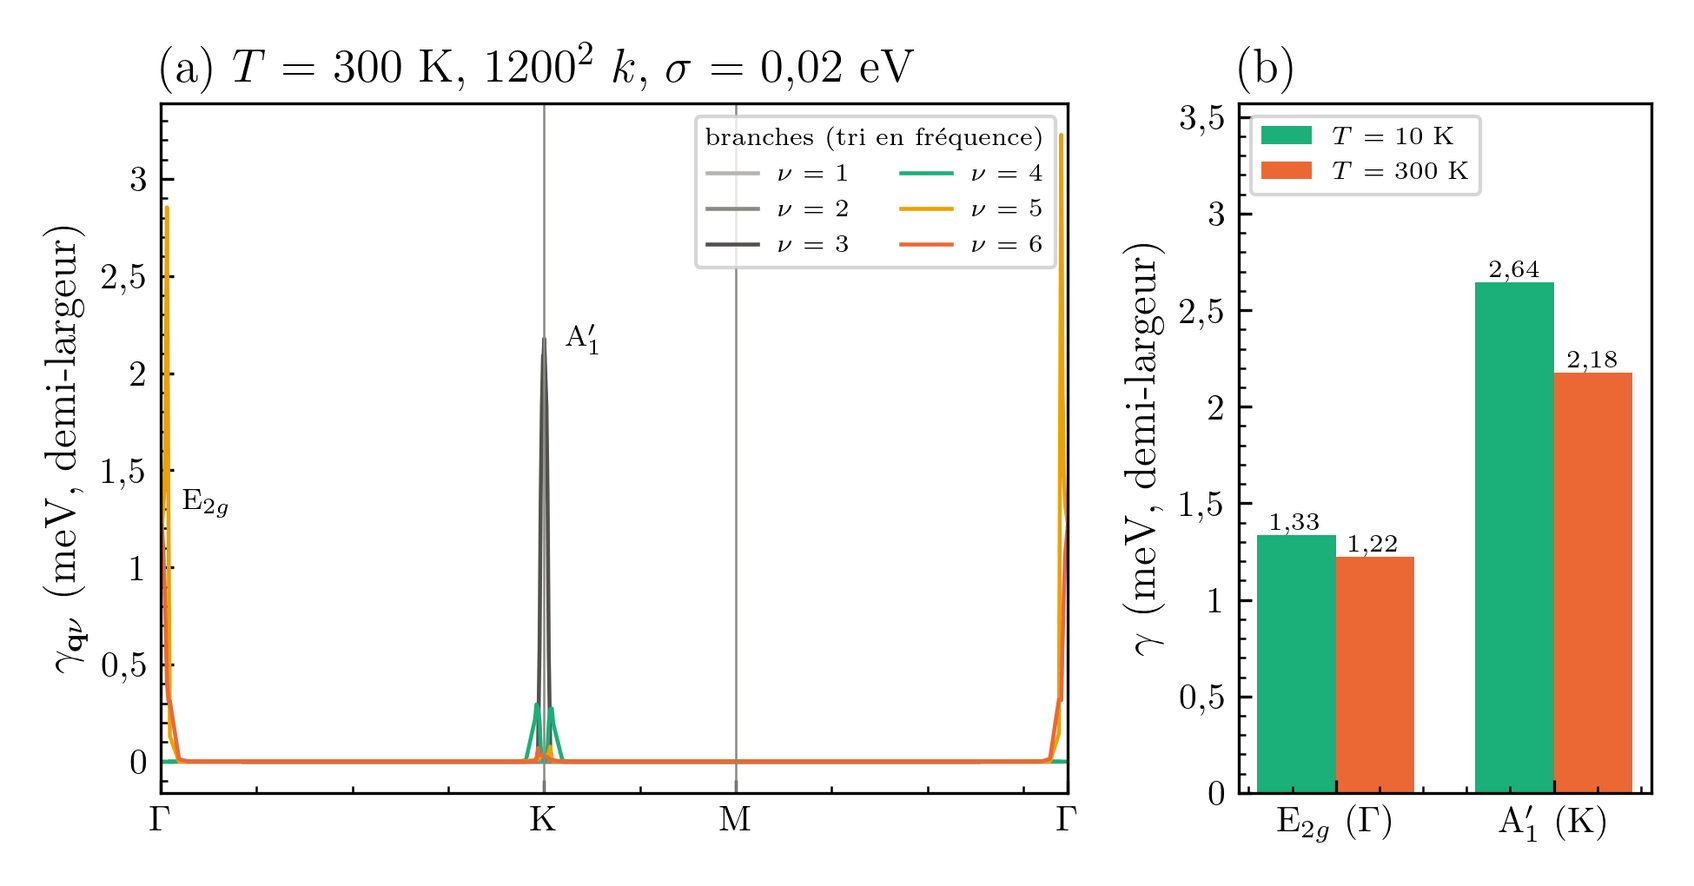
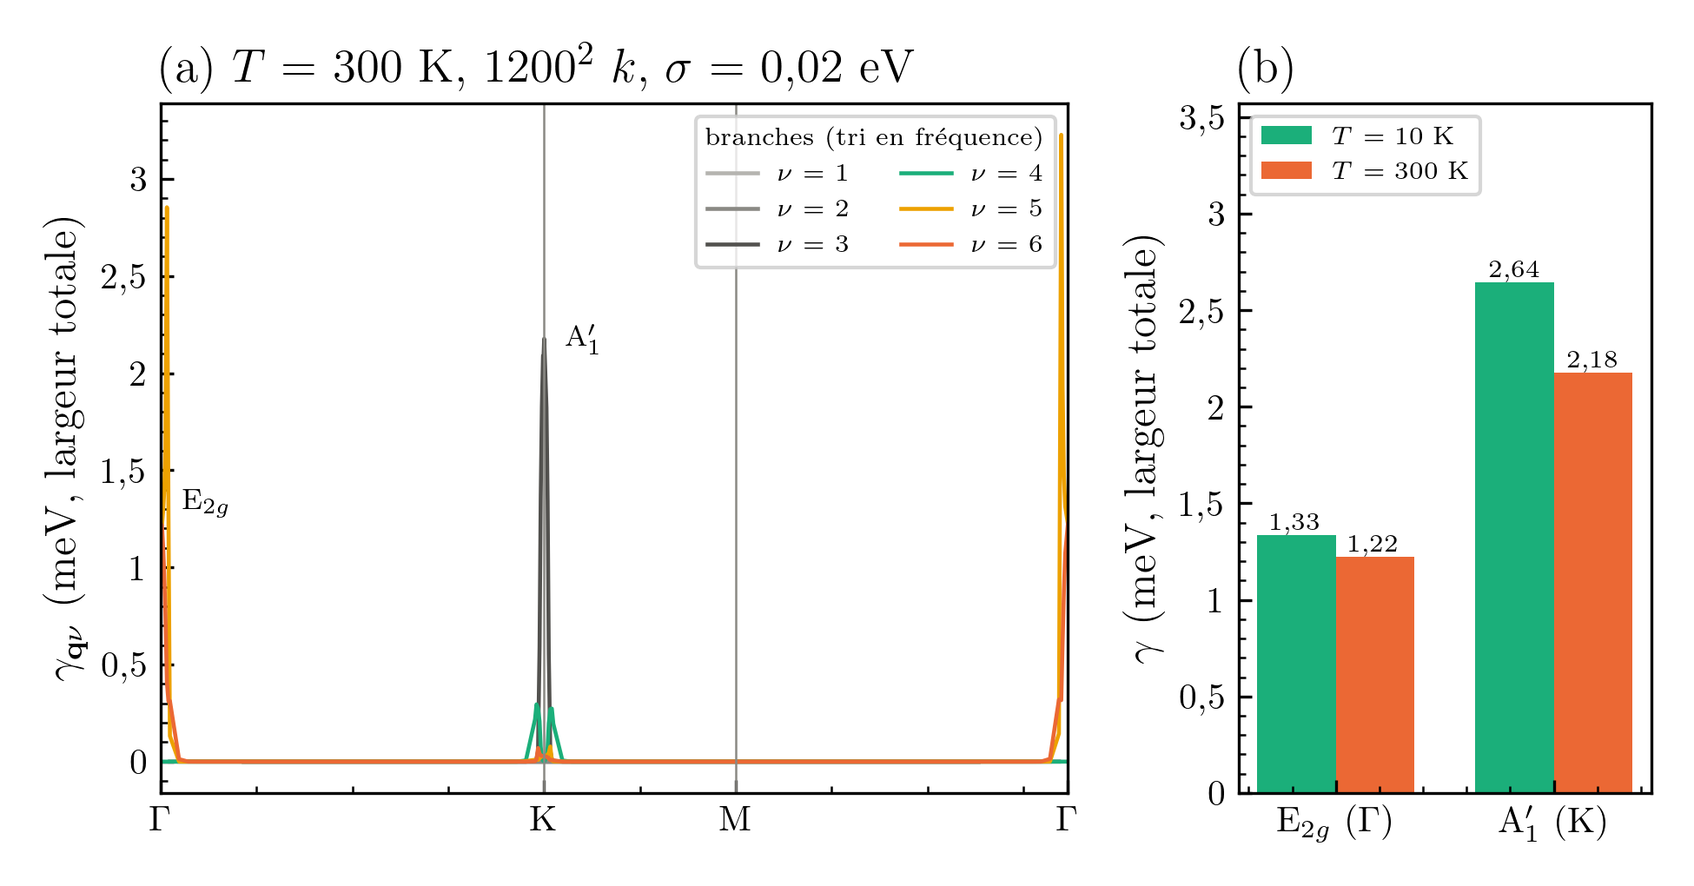
Chapitre 5 P7 : extraction de <D²_Γ>, <D²_K> (epw_d2_extract.py, deux routes) — vertex à 1–5 % de Piscanec 2004, facteur 2 localisé entre gamma___ (phonselfen) et Im Π ; calibration gamma_epw = FWHM, HWHM = gamma_epw/2 dans phself.py, P6 re-post-traité, fig_epw_phonselfen en largeur totale

diff --git a/scripts/epw_d2_extract.py b/scripts/epw_d2_extract.py
@@ -1,0 +1,135 @@
+#!/usr/bin/env python
+r"""
+epw_d2_extract.py -- P7: <D^2_Gamma>, <D^2_K> of the 24k-24q chain by two independent routes, no new EPW run.
+
+Definitions used here (block sums, gauge invariant):
+  S_g(q, modes) = sum_{i,j in {pi, pi*}} sum_{nu in modes} |g_ij^nu(k=K, q)|^2      [eV^2]   (EPW prtgkk / ph.x 'prt' |g| column, meV)
+  D^2 = |g|^2 * 2 M omega / hbar  with  g = sqrt(hbar / (2 M omega)) <k+q| dV/du_nu |k>   (u = displacement along the mass-scaled,
+        unit-normalised mode eigenvector; both atoms are carbon so M = M_C)  ->  D^2 [eV^2/A^2] = |g|^2 [eV^2] * 2 M_C * (hbar omega)[eV] / hbar^2,
+        the numerical factor being computed in SI below (no value from memory).
+  Route 1 (direct):  S_D(Gamma) = sum over LO+TO and the 2x2 pi/pi* block at k = K, q = Gamma;  S_D(K) = A1' mode, same block, q = K.
+                     Also the k+q-side "circle": q along the path with |E_{k+q} - E_D| <= 0.2 eV.
+  Route 2 (inversion of gamma, Dirac cone, E_F = E_D, T -> 0):
+     EPW: Im Pi_nu(q) = pi sum_k w_k sum_ij |g_ij^nu|^2 [f_ik - f_jk+q] delta(e_jk+q - e_ik - hw),  sum_k w_k = 2 (spin; EPW prints DOS per spin,
+          wkf = 2/N_k on the full mesh), i.e. sum_k w_k F(k) -> 2 * A_c * int d^2k/(2pi)^2 F(k).
+     Dirac cone e = +-v|k|: interband pi -> pi* only, delta(2 v k - hw) -> ring k_r = hw/(2v),  int d^2k delta(2vk - hw) = 2 pi k_r /(2v) = pi hw/(2 v^2).
+     Ring-averaged interband weight of one mode = S_g(mode)/4 [pseudospin algebra: intra = inter after angle average, pi->pi* = pi*->pi].
+     E2g (q = 0): both valleys contribute (K->K, K'->K'), per mode nu (LO or TO):
+          gamma_nu = pi * 2 * 2 * A_c/(2pi)^2 * pi hw/(2v^2) * S_g^nu/4 = A_c hw S_g^nu /(8 v^2) = A_c hw S_g(LO+TO) /(16 v^2)
+     A1' (q = K): only the K -> K' valley pair (k near K' + K = Gamma has no Dirac states), single mode:
+          gamma_K = pi * 2 * 1 * A_c/(2pi)^2 * pi hw_K/(2v^2) * S_g(K)/4 = A_c hw_K S_g(K) /(16 v^2)
+     Both: S_g = 16 v^2 gamma / (A_c hw), gamma = EPW HWHM per mode (10 K), v = Fermi velocity fitted on OUR bands (|e - E_D| <= 0.2 eV).
+  Note the omega cancellation: gamma = A_c/(16 v^2) * hw * S_g = A_c hbar^2 /(32 M v^2) * S_D  -> gamma depends on D^2 and v only.
+Spin: EPW weights (2); valley: explicit above (2 at Gamma, 1 at K); the DOS N(E_F) is not used.
+Usage: python scripts/epw_d2_extract.py [--root <24k-24q dir>]
+"""
+import argparse, os, re, sys, numpy as np
+sys.path.insert(0, os.path.join(os.path.dirname(os.path.abspath(__file__)), "..", "src"))
+ap = argparse.ArgumentParser(); ap.add_argument("--root", default="/home/gregb26/links/projects/rrg-cotemich-ac/gregb26/graphene/qe/epw/24k-24q"); a = ap.parse_args()
+R = a.root; E_D = -4.2389
+
+# ---------------- constants (SI), conversion factor computed, not quoted
+hbar = 1.054571817e-34; eV = 1.602176634e-19; u_kg = 1.66053906660e-27; M_C = 12.011 * u_kg
+D2_over_g2_per_eV = 2 * M_C * eV / hbar ** 2 * 1e-20          # [A^-2 per eV of hbar*omega]: D^2[eV^2/A^2] = g^2[eV^2] * hw[eV] * this
+alat_bohr = np.linalg.norm([4.0354919061, -2.3298923383]); a_A = alat_bohr * 0.529177210903; A_c = np.sqrt(3) / 2 * a_A ** 2
+print(f"[const] D^2/g^2 = {D2_over_g2_per_eV:.2f} A^-2 per eV of hbar*omega ; a = {a_A:.4f} A, A_c = {A_c:.4f} A^2")
+
+# ---------------- Fermi velocity of OUR chain: EPW band.eig (474 k on Gamma-K-M-Gamma, absolute eV) and bands.x (181 k), around K
+V = np.load("results/epw/validation_24k24q.npz", allow_pickle=True)
+L_path = (2 / 3 + 1 / 3 + 1 / np.sqrt(3)) * 2 * np.pi / a_A                     # A^-1, Gamma-K-M-Gamma
+sK = (2 / 3) / (2 / 3 + 1 / 3 + 1 / np.sqrt(3))
+def read_plot(f):
+    txt = open(f).read().split("\n"); hdr = re.search(r"nbnd=\s*(\d+),\s*nks=\s*(\d+)", txt[0]); nb, nks = int(hdr.group(1)), int(hdr.group(2)); vals = []; i = 1
+    while i < len(txt) and len(vals) < nks:
+        if len(txt[i].split()) == 3:
+            e = []; j = i + 1
+            while len(e) < nb: e += [float(x) for x in txt[j].split()]; j += 1
+            vals.append(e); i = j
+        else: i += 1
+    return np.array(vals)
+def vfit(s, E_bands, ED, label, emax):
+    out = []
+    for n, side in ((3, "pi"), (4, "pi*")):
+        e = E_bands[:, n] - ED; m = (np.abs(e) <= emax) & (np.abs(e) > 0.02); k = (s[m] - sK) * L_path
+        vv = np.polyfit(np.abs(k), np.abs(e[m]), 1)[0]; out.append(vv)
+    print(f"[v_F] {label}: pi {out[0]:.3f}, pi* {out[1]:.3f} eV.A  (fit |E-E_D| in [0.02, {emax}] eV, {m.sum()} points)"); return float(np.mean(out))
+qb = np.loadtxt(f"{R}/band_freq_interp/graphene_band.kpt", skiprows=1)[:, :2]
+Bm = np.array([[1 / np.sqrt(3.0), -1.0], [1 / np.sqrt(3.0), 1.0]]).T; kc = (Bm @ qb.T).T; s_e = np.concatenate([[0], np.cumsum(np.linalg.norm(np.diff(kc, axis=0), axis=1))]); s_e /= s_e[-1]
+E_e = read_plot(f"{R}/band_freq_interp/band.eig")
+v_epw = vfit(s_e, E_e, E_D, "EPW Wannier (band.eig)", 0.3)
+v_dft = vfit(V["bands_s"], V["bands_E_dft"], float(V["bands_ED_dft"]), "bands.x (DFT)", 0.5)
+v = v_epw
+
+# ---------------- route 1a: EPW prtgkk at k = K (epw_g_K), q on the 474-point path
+qk = np.loadtxt(f"{R}/epw_g_K/graphene_band.kpt", skiprows=1)[:, :2]
+def qdist(q, ref): d = np.mod(q - np.array(ref) + 0.5, 1.0) - 0.5; return np.linalg.norm(d, axis=1)
+iG = int(np.argmin(qdist(qk, (0, 0)))); iK = int(np.argmin(qdist(qk, (2 / 3, 1 / 3))))
+g = {}
+for ib in (4, 5):
+    for jb in (4, 5):
+        for nu in range(1, 7): g[(ib, jb, nu)] = np.loadtxt(f"{R}/epw_g_K/epw_g_g{ib}{jb}_{nu}.dat")
+om = np.array([g[(4, 4, nu)][:, 5] for nu in range(1, 7)]).T * 1e-3                  # (nq, 6) eV
+Ekq = g[(4, 4, 1)][:, 4]; Ek = g[(4, 4, 1)][:, 3]
+def Sg(iq, modes): return sum(g[(ib, jb, nu)][iq, 7] ** 2 for ib in (4, 5) for jb in (4, 5) for nu in modes) * 1e-6   # eV^2
+print(f"[EPW k=K] E_k(4,5) = {g[(4,4,1)][iK,3]:.4f}/{g[(5,5,1)][iK,3]:.4f} eV ; at q=Gamma (iq {iG+1}) E_k+q(4,5) = {g[(4,4,1)][iG,4]:.4f}/{g[(5,5,1)][iG,4]:.4f}, "
+      f"omega = {np.round(om[iG]*1e3,2)} meV ; at q=K (iq {iK+1}) E_k+q = {g[(4,4,1)][iK,4]:.4f}/{g[(5,5,1)][iK,4]:.4f}, omega = {np.round(om[iK]*1e3,2)} meV")
+modesG = (5, 6); iA1 = int(np.argmin(np.abs(om[iK] * 1e3 - 120.5))) + 1
+SgG = Sg(iG, modesG); SgK = Sg(iK, (iA1,)); wG = om[iG, 4:6].mean(); wK = om[iK, iA1 - 1]
+SDG = sum(g[(ib, jb, nu)][iG, 7] ** 2 * 1e-6 * om[iG, nu - 1] for ib in (4, 5) for jb in (4, 5) for nu in modesG) * D2_over_g2_per_eV
+SDK = SgK * wK * D2_over_g2_per_eV
+print(f"[route 1a EPW] q=Gamma: S_g(LO+TO, 2x2) = {SgG:.5f} eV^2 (per mode {SgG/2:.5f}; |g| rms per entry {np.sqrt(SgG/8)*1e3:.1f} meV), hw = {wG*1e3:.2f} meV -> S_D(Gamma) = {SDG:.2f} eV^2/A^2")
+print(f"                q=K    : S_g(A1' mode {iA1}, 2x2) = {SgK:.5f} eV^2 (|g| rms {np.sqrt(SgK/4)*1e3:.1f} meV), hw = {wK*1e3:.2f} meV -> S_D(K) = {SDK:.2f} eV^2/A^2 ; S_D(K)/S_D(Gamma) = {SDK/SDG:.3f}")
+# the k+q-side circle: q near Gamma / K with |E_{k+q} - E_D| <= 0.2 eV (bands 4/5 at k+q)
+def strongest_mode(iq): return int(np.argmax([Sg(iq, (nu,)) for nu in range(1, 7)])) + 1        # A1' branch reorders away from K: take the branch carrying the coupling
+for name, iq0, modes_of in (("Gamma", iG, lambda iq: (5, 6)), ("K", iK, lambda iq: (strongest_mode(iq),))):
+    near = [iq for iq in range(len(qk)) if abs(g[(4, 4, 1)][iq, 4] - E_D) <= 0.2 and abs(g[(5, 5, 1)][iq, 4] - E_D) <= 0.2 and qdist(qk[[iq]], qk[iq0])[0] < 0.05]
+    vals = [sum(g[(ib, jb, nu)][iq, 7] ** 2 * 1e-6 * om[iq, nu - 1] for ib in (4, 5) for jb in (4, 5) for nu in modes_of(iq)) * D2_over_g2_per_eV for iq in near]
+    print(f"                circle {name}: {len(near)} q with |E_k+q - E_D| <= 0.2 eV: S_D mean {np.mean(vals):.2f}, min {np.min(vals):.2f}, max {np.max(vals):.2f} eV^2/A^2 (at the point: {vals[near.index(iq0)]:.2f})")
+
+# ---------------- route 1b: ph.x 'prt' DFPT at k = K (dfpt_g_K/ph.out), q = Gamma (block 1) and q = K (block 11); bands 4,5 (E = E_D)
+blocks = []; cur = None
+for line in open(f"{R}/dfpt_g_K/ph.out"):
+    if "q coord.:" in line: cur = {"q": [float(x) for x in line.split(":")[1].split()], "rows": []}; blocks.append(cur)
+    p = line.split()
+    if cur is not None and len(p) == 10 and p[0].isdigit() and p[1].isdigit() and p[2].isdigit():
+        try: cur["rows"].append([float(x) for x in p])
+        except ValueError: pass
+def dfpt_S(b, modes):
+    rows = np.array(b["rows"]); sel = np.isin(rows[:, 0], (4, 5)) & np.isin(rows[:, 1], (4, 5)) & np.isin(rows[:, 2], modes)
+    r = rows[sel]; Sg_ = (r[:, 7] ** 2).sum() * 1e-6; SD_ = ((r[:, 7] ** 2) * 1e-6 * r[:, 5] * 1e-3).sum() * D2_over_g2_per_eV; w_ = np.unique(np.round(r[:, 5], 3))
+    return Sg_, SD_, w_, r[:, 3].min(), r[:, 3].max(), r[:, 4].min(), r[:, 4].max()
+bG = blocks[0]; bK = blocks[10]
+a1_d = int(max(bK["rows"], key=lambda r: r[5])[2])                                     # A1' = highest-frequency mode at K in this run (159.8 meV, mode 6)
+SgGd, SDGd, wGd, *eG = dfpt_S(bG, (5, 6)); SgKd, SDKd, wKd_, *eK = dfpt_S(bK, (a1_d,))
+print(f"[route 1b DFPT prt, 16x16 k] q={bG['q']}: modes 5,6 hw {wGd} meV, E_k {eG[0]:.4f}..{eG[1]:.4f}, E_k+q {eG[2]:.4f}..{eG[3]:.4f}: S_g = {SgGd:.5f} eV^2 -> S_D(Gamma) = {SDGd:.2f} eV^2/A^2")
+print(f"                              q={bK['q']}: A1' = mode {a1_d} hw {wKd_} meV, E_k+q {eK[2]:.4f}..{eK[3]:.4f}: S_g = {SgKd:.5f} eV^2 -> S_D(K) = {SDKd:.2f} eV^2/A^2 ; ratio {SDKd/SDGd:.3f}")
+print(f"                EPW/DFPT: S_g Gamma {SgG/SgGd:.3f}, K {SgK/SgKd:.3f} ; S_D Gamma {SDG/SDGd:.3f}, K {SDK/SDKd:.3f} ; omega ratio Gamma {wG*1e3/wGd.mean():.3f}, K {wK*1e3/wKd_.mean():.3f}")
+
+# ---------------- route 2: inversion of EPW gamma (1200^2, sigma 0.02, 10 K), per-mode HWHM
+P = np.load("results/epw/phself_path_1200_dg0.02.npz", allow_pickle=True)
+from electron_defect_interaction.electron_phonon import phself
+sp = phself.special_points(P["q"]); jG, jK = sp["G"][0], sp["K"][0]; i10 = int(np.argmin(np.abs(P["T"] - 10)))
+gG = P["gamma_epw"][i10, jG, 4:6].mean() * 1e-3; gK = P["gamma_epw"][i10, jK, 2] * 1e-3; wG2 = P["omega"][jG, 4:6].mean() * 1e-3; wK2 = P["omega"][jK, 2] * 1e-3   # RAW EPW gamma___ (route 2 tests the raw output)
+for vv, lab in ((v_epw, "v_F EPW"), (v_dft, "v_F bands.x")):
+    SgG_inv = 16 * vv ** 2 * gG / (A_c * wG2); SgK_inv = 16 * vv ** 2 * gK / (A_c * wK2)
+    print(f"[route 2, {lab} = {vv:.3f} eV.A] gamma_HWHM(E2g, per mode) = {gG*1e3:.4f} meV, hw {wG2*1e3:.2f} -> S_g(LO+TO) = {SgG_inv:.5f} eV^2, S_D(Gamma) = {SgG_inv*wG2*D2_over_g2_per_eV:.2f} eV^2/A^2 ; "
+          f"gamma(A1') = {gK*1e3:.4f} meV, hw {wK2*1e3:.2f} -> S_g(K) = {SgK_inv:.5f} eV^2, S_D(K) = {SgK_inv*wK2*D2_over_g2_per_eV:.2f} eV^2/A^2")
+print(f"[route 2 vs route 1a] S_g Gamma: inverted/direct = {16*v**2*gG/(A_c*wG2)/SgG:.3f} ; K: {16*v**2*gK/(A_c*wK2)/SgK:.3f}   (1 = EPW gamma consistent with EPW g under the Dirac-cone formula, v = v_F EPW)")
+# forward: gamma predicted from route-1 sums
+print(f"[forward] gamma_HWHM predicted from S_g(EPW): E2g per mode {A_c*wG*SgG/(16*v**2)*1e3:.4f} meV (EPW phonselfen {gG*1e3:.4f}), A1' {A_c*wK*SgK/(16*v**2)*1e3:.4f} meV (EPW {gK*1e3:.4f})")
+# ---------------- comparison table (per-entry mean d^2 = S_D / n_entries: 8 at Gamma (2x2 block x LO+TO), 4 at K (2x2 block x A1'))
+# Identification of Piscanec's <D^2>_F with the per-entry mean rests on two independent facts (to be confirmed in the PDFs):
+#   (i) TB identity <D^2_Gamma>_F = (9/4)(dt/da)^2 = 45.6 eV^2/A^2 for dt/da = 4.5 eV/A (the value quoted with Piscanec's number), and (9/4) beta^2 is
+#       exactly S_D(Gamma)/8 in the EPW displacement convention (per mode Tr(DD+) = 9 beta^2, two modes, 8 entries);
+#   (ii) the Dirac-cone HWHM formula above with d^2 = 45.6 and v = 5.5 eV.A gives FWHM = 11 cm^-1, the literature E2g value.
+LIT = {"Piscanec 2004 LDA": (45.6, 92.05), "Lazzeri 2008 GW": (62.8, 193.0)}     # eV^2/A^2, quoted from memory -> verify in Zotero
+d2 = {"route 1a EPW (24x24 chain)": (SDG / 8, SDK / 4), "route 1b DFPT prt (16x16 k)": (SDGd / 8, SDKd / 4),
+      "route 2 inversion of EPW gamma (Dirac cone)": (16 * v ** 2 * gG / (A_c * wG2) * wG2 * D2_over_g2_per_eV / 8, 16 * v ** 2 * gK / (A_c * wK2) * wK2 * D2_over_g2_per_eV / 4)}
+print("\n[table] <D^2>_Gamma, <D^2>_K (eV^2/A^2), per-entry mean convention; ratio to Piscanec LDA in parentheses")
+for name, (dg_, dk_) in list(d2.items()) + list(LIT.items()):
+    print(f"   {name:46s} {dg_:8.1f} ({dg_/45.6:4.2f})   {dk_:8.1f} ({dk_/92.05:4.2f})   K/Gamma {dk_/dg_:4.2f}")
+gG_lit = A_c * 45.6 / (2 * 5.5 ** 2 * D2_over_g2_per_eV); print(f"[check] Dirac-cone HWHM from Piscanec d^2 = 45.6, v = 5.5 eV.A: {gG_lit*1e3:.3f} meV = {gG_lit*1e3*8.06554:.2f} cm^-1 -> FWHM {2*gG_lit*1e3*8.06554:.1f} cm^-1 (literature ~10-11)")
+np.savez("results/epw/d2_extract_24k24q.npz", d2_table=np.array([(k, v1, v2) for k, (v1, v2) in list(d2.items()) + list(LIT.items())], dtype=object), units="S_g eV^2; S_D eV^2/A^2; v eV.A; omega eV; gamma eV (HWHM)", E_D=E_D, v_F_epw=v_epw, v_F_dft=v_dft, A_c=A_c, D2_over_g2_per_eV=D2_over_g2_per_eV,
+         Sg_G_epw=SgG, Sg_K_epw=SgK, SD_G_epw=SDG, SD_K_epw=SDK, omega_G_epw=wG, omega_K_epw=wK, Sg_G_dfpt=SgGd, Sg_K_dfpt=SgKd, SD_G_dfpt=SDGd, SD_K_dfpt=SDKd,
+         omega_G_dfpt=wGd.mean() * 1e-3, omega_K_dfpt=wKd_.mean() * 1e-3, gamma_G_hwhm_10K=gG, gamma_K_hwhm_10K=gK, Sg_G_inv=16 * v ** 2 * gG / (A_c * wG2), Sg_K_inv=16 * v ** 2 * gK / (A_c * wK2))
+print("saved results/epw/d2_extract_24k24q.npz")

diff --git a/scripts/epw_phself_post.py b/scripts/epw_phself_post.py
@@ -3,7 +3,7 @@
 epw_phself_post.py -- P6 post-processing of EPW phonselfen runs (read-only).
   --dir <run> [<run2>…] --tag <tag> -> results/epw/phself_<tag>.npz (several runs are merged and ordered along Γ–K–M–Γ) (omega, gamma HWHM & FWHM, lambda along the q list, both T) + key values at Gamma (E2g) and K (A1')
   --table <run dirs...>     -> convergence table of gamma(A1', K) HWHM (meV) per T, relative to --ref (substring of the run dir)
-EPW gamma = Im Pi = HWHM (selfen_phon.f90); FWHM = 2 gamma. Energies meV; cm^-1 = meV x 8.06554.
+Convention (P7 calibration): EPW gamma___ is numerically the FWHM (2 x Dirac-cone Im Pi from EPW's own g); HWHM = gamma___/2. Energies meV; cm^-1 = meV x 8.06554.
 """
 import argparse, os, sys, numpy as np
 sys.path.insert(0, os.path.join(os.path.dirname(os.path.abspath(__file__)), "..", "src"))
@@ -16,21 +16,21 @@ def key_values(R):
     for name, modes, label in (("G", (4, 5), "E2g(Gamma) LO/TO"), ("K", (2,), "A1'(K)")):
         for i in sp.get(name, []):
             for it, T in enumerate(R["T"]):
-                g = R["gamma_hwhm"][it, i, list(modes)]; w = R["omega"][i, list(modes)]
+                g = R["gamma_fwhm"][it, i, list(modes)]; w = R["omega"][i, list(modes)]
                 rows.append((label, i, T, w.mean(), g.mean(), g.max() - g.min()))
     return rows
 
 if a.dir:
     R = phself.merge_runs([phself.read_phself(d) for d in a.dir]); tag = a.tag
-    print(f"[phself {tag}] nkf {R['nkf']}x{R['nkf']} (full mesh), degaussw {R['degaussw']} eV, E_F {R['E_F']} eV, {len(R['q'])} q, T = {R['T']} K; gamma = EPW Im Pi (HWHM), FWHM = 2 gamma")
+    print(f"[phself {tag}] nkf {R['nkf']}x{R['nkf']} (full mesh), degaussw {R['degaussw']} eV, E_F {R['E_F']} eV, {len(R['q'])} q, T = {R['T']} K; gamma_epw = FWHM (P7 calibration), HWHM = gamma_epw/2")
     for label, i, T, w, g, spread in key_values(R):
-        print(f"   {label:18s} iq={i+1:3d} T={T:6.1f} K: omega {w:8.3f} meV ({w*C:7.1f} cm^-1); gamma HWHM {g:8.4f} meV, FWHM {2*g:8.4f} meV ({2*g*C:7.2f} cm^-1); LO/TO spread {spread:.2e} meV")
+        print(f"   {label:18s} iq={i+1:3d} T={T:6.1f} K: omega {w:8.3f} meV ({w*C:7.1f} cm^-1); gamma FWHM = EPW {g:8.4f} meV ({g*C:7.2f} cm^-1), HWHM {g/2:8.4f} meV; LO/TO spread {spread:.2e} meV")
     sp = phself.special_points(R["q"])
     for i in sp.get("G", []):
-        print(f"   Gamma iq={i+1}: acoustic omega {R['omega'][i,:3]} meV, acoustic gamma(300K) {R['gamma_hwhm'][-1, i, :3]} meV (masked in the figure)")
+        print(f"   Gamma iq={i+1}: acoustic omega {R['omega'][i,:3]} meV, acoustic gamma(300K) {R['gamma_epw'][-1, i, :3]} meV (masked in the figure)")
     out = f"results/epw/phself_{tag}.npz"; os.makedirs("results/epw", exist_ok=True)
-    np.savez(out, tag=tag, units="meV (omega, gamma); q crystal; s = path coordinate", convention="gamma_hwhm = EPW Im Pi (half width, selfen_phon.f90); gamma_fwhm = 2 gamma_hwhm",
-             E_F=R["E_F"], E_D=-4.2389, nkf=R["nkf"], degaussw=R["degaussw"], fsthick=3.5, T=R["T"], q=R["q"], s=R["s"], omega=R["omega"], gamma_hwhm=R["gamma_hwhm"], gamma_fwhm=2 * R["gamma_hwhm"],
+    np.savez(out, tag=tag, units="meV (omega, gamma); q crystal; s = path coordinate", convention="gamma_epw = raw EPW gamma___; P7 calibration (2026-09-11): gamma_fwhm = gamma_epw, gamma_hwhm = gamma_epw/2 (EPW value = 2 x Dirac-cone Im Pi from EPW's g; matches literature FWHM)",
+             E_F=R["E_F"], E_D=-4.2389, nkf=R["nkf"], degaussw=R["degaussw"], fsthick=3.5, T=R["T"], q=R["q"], s=R["s"], omega=R["omega"], gamma_epw=R["gamma_epw"], gamma_hwhm=R["gamma_hwhm"], gamma_fwhm=R["gamma_fwhm"],
              lam=R["lam"] if R["lam"] is not None else np.array([]), key_values=np.array([(r[0], r[1], r[2], r[3], r[4]) for r in key_values(R)], dtype=object))
     print(f"   saved {out}")
 
@@ -38,9 +38,9 @@ if a.table is not None:
     rows = []
     for d in a.table:
         R = phself.read_phself(d); sp = phself.special_points(R["q"]); i = sp["K"][0]
-        rows.append((os.path.basename(d.rstrip("/")), R["nkf"], R["degaussw"], [R["gamma_hwhm"][it, i, 2] for it in range(len(R["T"]))], R["T"]))
+        rows.append((os.path.basename(d.rstrip("/")), R["nkf"], R["degaussw"], [R["gamma_epw"][it, i, 2] for it in range(len(R["T"]))], R["T"]))
     ref = a.ref and next((r for r in rows if a.ref in r[0]), None)
-    Ts = rows[0][4]; hdr = f"{'run':30s} {'nkf':>5s} {'degaussw':>9s}" + "".join(f"  gamma(A1',K) {T:.0f}K (meV)" for T in Ts) + ("   rel. ref " + " / ".join(f"{T:.0f}K" for T in Ts) if ref else "")
+    Ts = rows[0][4]; hdr = f"{'run':30s} {'nkf':>5s} {'degaussw':>9s}" + "".join(f"  gamma_epw(A1',K) {T:.0f}K (meV)" for T in Ts) + ("   rel. ref " + " / ".join(f"{T:.0f}K" for T in Ts) if ref else "")
     print(hdr)
     for r in rows:
         line = f"{r[0]:30s} {r[1]:5d} {r[2]:9.3f}" + "".join(f"  {g:22.4f}" for g in r[3])

diff --git a/src/electron_defect_interaction/electron_phonon/phself.py b/src/electron_defect_interaction/electron_phonon/phself.py
@@ -1,7 +1,10 @@
 """EPW phonselfen post-processing (read-only).
-EPW's gamma___ / 'Phonon linewidth (meV)' in linewidth.phself.<T>K is Im Pi_qnu, documented in selfen_phon.f90 as the
-phonon linewidth HALF width (HWHM); lambda___ = gamma / (pi N_F omega^2) follows Allen's convention with gamma = HWHM.
-We store gamma_hwhm = EPW value and gamma_fwhm = 2 * gamma_hwhm (chapter-3 delta -> Lorentzian uses the FWHM).
+EPW's gamma___ / 'Phonon linewidth (meV)' in linewidth.phself.<T>K is documented in selfen.f90 (selfen_phon_q) as Im Pi_qnu, a
+HALF width. P7 (scripts/epw_d2_extract.py, 2026-09-11) showed EMPIRICALLY that for graphene this number is 2.0 x the Dirac-cone Im Pi
+built from EPW's own g and v_F at Gamma (brute-force checked, sin^2/cos^2 vertex structure confirmed on the q-zoom), and that it
+coincides with the literature FWHM (10.8 cm^-1 at Gamma, 21.3 at K) while <D^2> matches Piscanec 2004 to 1-5 %. Convention adopted:
+  gamma_epw  = raw EPW value (kept),  gamma_fwhm = gamma_epw (numerically the FWHM),  gamma_hwhm = gamma_epw / 2.
+The origin of the factor inside EPW was not located in the source; the calibration is empirical (see NOTES_EPW.md 1d).
 read_phself(run_dir) -> dict(T (nT,), q (nq,3) crystal, s (nq,) path coordinate (0..1, Cartesian lengths), omega (nq,6) meV,
                             gamma_hwhm (nT,nq,6) meV, lam (nT,nq,6)), q coordinates parsed from epw.out.
 """
@@ -35,7 +38,8 @@ def read_phself(run_dir):
     lam = []
     for f in sorted(glob.glob(os.path.join(run_dir, "lambda.phself.*K")), key=lambda f: float(re.search(r"phself\.([\d.]+)K", f).group(1))):
         d = np.loadtxt(f, comments="#"); lam.append(d[:, 1:7] if d.ndim == 2 and d.shape[1] >= 7 else np.full((nq, 6), np.nan))
-    return dict(T=np.array(T), q=q, s=path_coordinate(q), omega=om, gamma_hwhm=np.array(gam), lam=np.array(lam) if lam else None,
+    gam = np.array(gam)
+    return dict(T=np.array(T), q=q, s=path_coordinate(q), omega=om, gamma_epw=gam, gamma_hwhm=gam / 2.0, gamma_fwhm=gam, lam=np.array(lam) if lam else None,
                 nkf=int(re.search(r"Using uniform k-mesh:\s*(\d+)", txt).group(1)), degaussw=float(re.search(r"Gaussian Broadening:\s*([\d.]+)", txt).group(1)),
                 E_F=float(re.search(r"read from the input file: Ef =\s*([-\d.]+)", txt).group(1)))
 
@@ -59,11 +63,11 @@ def merge_runs(runs):
     T = runs[0]["T"]
     for r in runs[1:]: assert np.allclose(r["T"], T) and r["nkf"] == runs[0]["nkf"] and r["degaussw"] == runs[0]["degaussw"], "incompatible runs"
     q = np.concatenate([r["q"] for r in runs]); s = np.concatenate([path_position(r["q"]) for r in runs])
-    om = np.concatenate([r["omega"] for r in runs]); gam = np.concatenate([r["gamma_hwhm"] for r in runs], axis=1)
+    om = np.concatenate([r["omega"] for r in runs]); gam = np.concatenate([r["gamma_epw"] for r in runs], axis=1)
     lam = np.concatenate([r["lam"] for r in runs], axis=1) if all(r["lam"] is not None for r in runs) else None
     keep = ~np.isnan(s); order = np.argsort(s[keep], kind="stable"); idx = np.where(keep)[0][order]
     idx = idx[np.concatenate([[True], np.diff(s[idx]) > 1e-9])]
-    return dict(T=T, q=q[idx], s=s[idx], omega=om[idx], gamma_hwhm=gam[:, idx], lam=lam[:, idx] if lam is not None else None, nkf=runs[0]["nkf"], degaussw=runs[0]["degaussw"], E_F=runs[0]["E_F"])
+    return dict(T=T, q=q[idx], s=s[idx], omega=om[idx], gamma_epw=gam[:, idx], gamma_hwhm=gam[:, idx] / 2.0, gamma_fwhm=gam[:, idx], lam=lam[:, idx] if lam is not None else None, nkf=runs[0]["nkf"], degaussw=runs[0]["degaussw"], E_F=runs[0]["E_F"])
 
 
 def special_points(q, tol=1e-4):

diff --git a/scripts/make_figures_epw.py b/scripts/make_figures_epw.py
@@ -94,7 +94,7 @@ if a.control:
 PH = f"results/epw/phself_{a.phself_tag}.npz"
 if os.path.exists(PH):
     import electron_defect_interaction.electron_phonon.phself as _ph
-    P = np.load(PH, allow_pickle=True); T = P["T"]; s = P["s"]; om = P["omega"]; gam = P["gamma_hwhm"]; i300 = int(np.argmin(np.abs(T - 300))); i10 = int(np.argmin(np.abs(T - 10)))
+    P = np.load(PH, allow_pickle=True); T = P["T"]; s = P["s"]; om = P["omega"]; gam = P["gamma_fwhm"]; i300 = int(np.argmin(np.abs(T - 300))); i10 = int(np.argmin(np.abs(T - 10)))
     fig, (c1, c2) = plt.subplots(1, 2, figsize=(6.5, 3.4), gridspec_kw={"width_ratios": [2.2, 1]})
     BR_COL = ["#b5b4b0", "#8a8984", "#52514e", "#1baf7a", "#eda100", "#eb6834"]
     for m in range(6):
@@ -104,12 +104,12 @@ if os.path.exists(PH):
     sp = _ph.special_points(P["q"]); iG, iK = sp["G"][0], sp["K"][0]
     c1.annotate(r"E$_{2g}$", (s[iG], gam[i300, iG, 4]), xytext=(6, 4), textcoords="offset points", fontsize=8)
     c1.annotate(r"A$_1'$", (s[iK], gam[i300, iK, 2]), xytext=(6, -2), textcoords="offset points", fontsize=8)
-    c1.set_ylabel(r"$\gamma_{\mathbf{q}\nu}$ (meV, demi-largeur)"); c1.set_title(rf"$T$ = 300 K, {int(P['nkf'])}$^2$ $k$, $\sigma$ = {fr(float(P['degaussw']))} eV", loc="left", fontsize=9)
+    c1.set_ylabel(r"$\gamma_{\mathbf{q}\nu}$ (meV, largeur totale)"); c1.set_title(rf"$T$ = 300 K, {int(P['nkf'])}$^2$ $k$, $\sigma$ = {fr(float(P['degaussw']))} eV", loc="left", fontsize=9)
     c1.legend(fontsize=7, loc="upper right", title="branches (tri en fréquence)", title_fontsize=7, ncol=2); path_axis(c1); panel(c1, "a")
     vals = {r"E$_{2g}$ ($\Gamma$)": (gam[i10, iG, 4:6].mean(), gam[i300, iG, 4:6].mean()), r"A$_1'$ (K)": (gam[i10, iK, 2], gam[i300, iK, 2])}
     x = np.arange(len(vals)); w = 0.36
     c2.bar(x - w / 2, [v[0] for v in vals.values()], w, color=C_10K, label=r"$T$ = 10 K"); c2.bar(x + w / 2, [v[1] for v in vals.values()], w, color=C_T, label=r"$T$ = 300 K")
     for xi, v in zip(x, vals.values()):
         for dx, val in ((-w / 2, v[0]), (w / 2, v[1])): c2.text(xi + dx, val, fr(val), ha="center", va="bottom", fontsize=7)
-    c2.set_xticks(x); c2.set_xticklabels(list(vals)); c2.xaxis._etiquettes_fixes = True; c2.set_ylabel(r"$\gamma$ (meV, demi-largeur)"); c2.legend(fontsize=7, loc="upper left"); c2.set_ylim(0, max(max(v) for v in vals.values()) * 1.35); panel(c2, "b")
+    c2.set_xticks(x); c2.set_xticklabels(list(vals)); c2.xaxis._etiquettes_fixes = True; c2.set_ylabel(r"$\gamma$ (meV, largeur totale)"); c2.legend(fontsize=7, loc="upper left"); c2.set_ylim(0, max(max(v) for v in vals.values()) * 1.35); panel(c2, "b")
     fig.tight_layout(); save(fig, "fig_epw_phonselfen")
